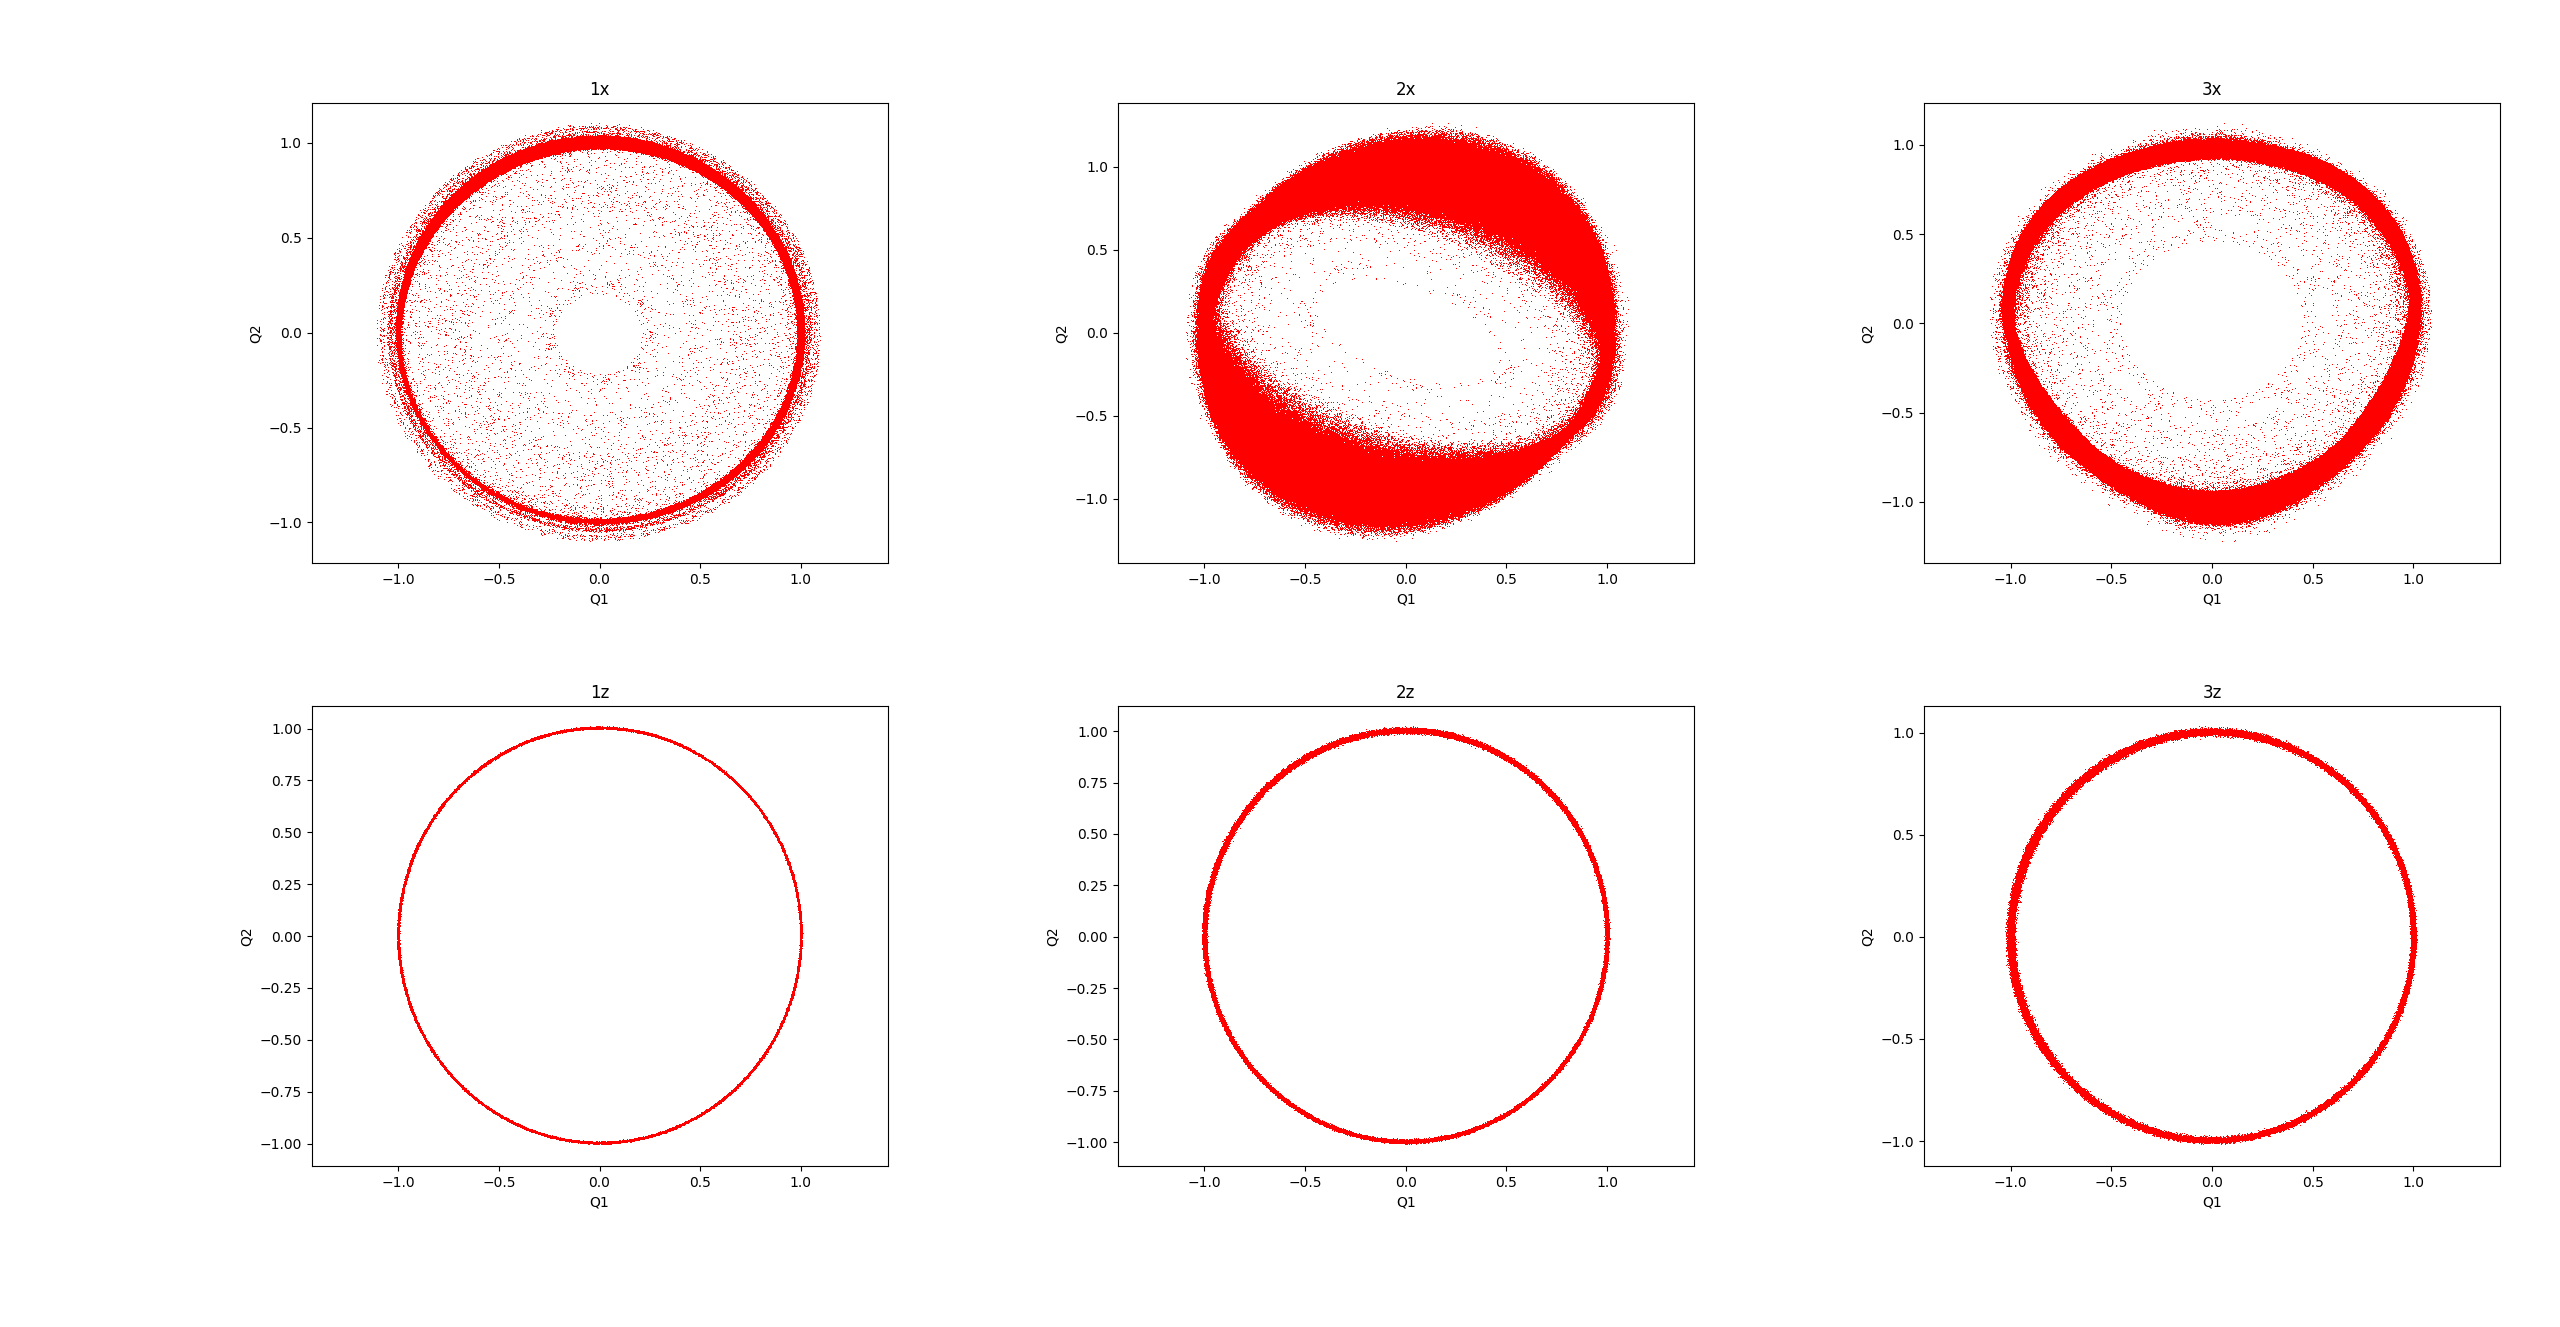
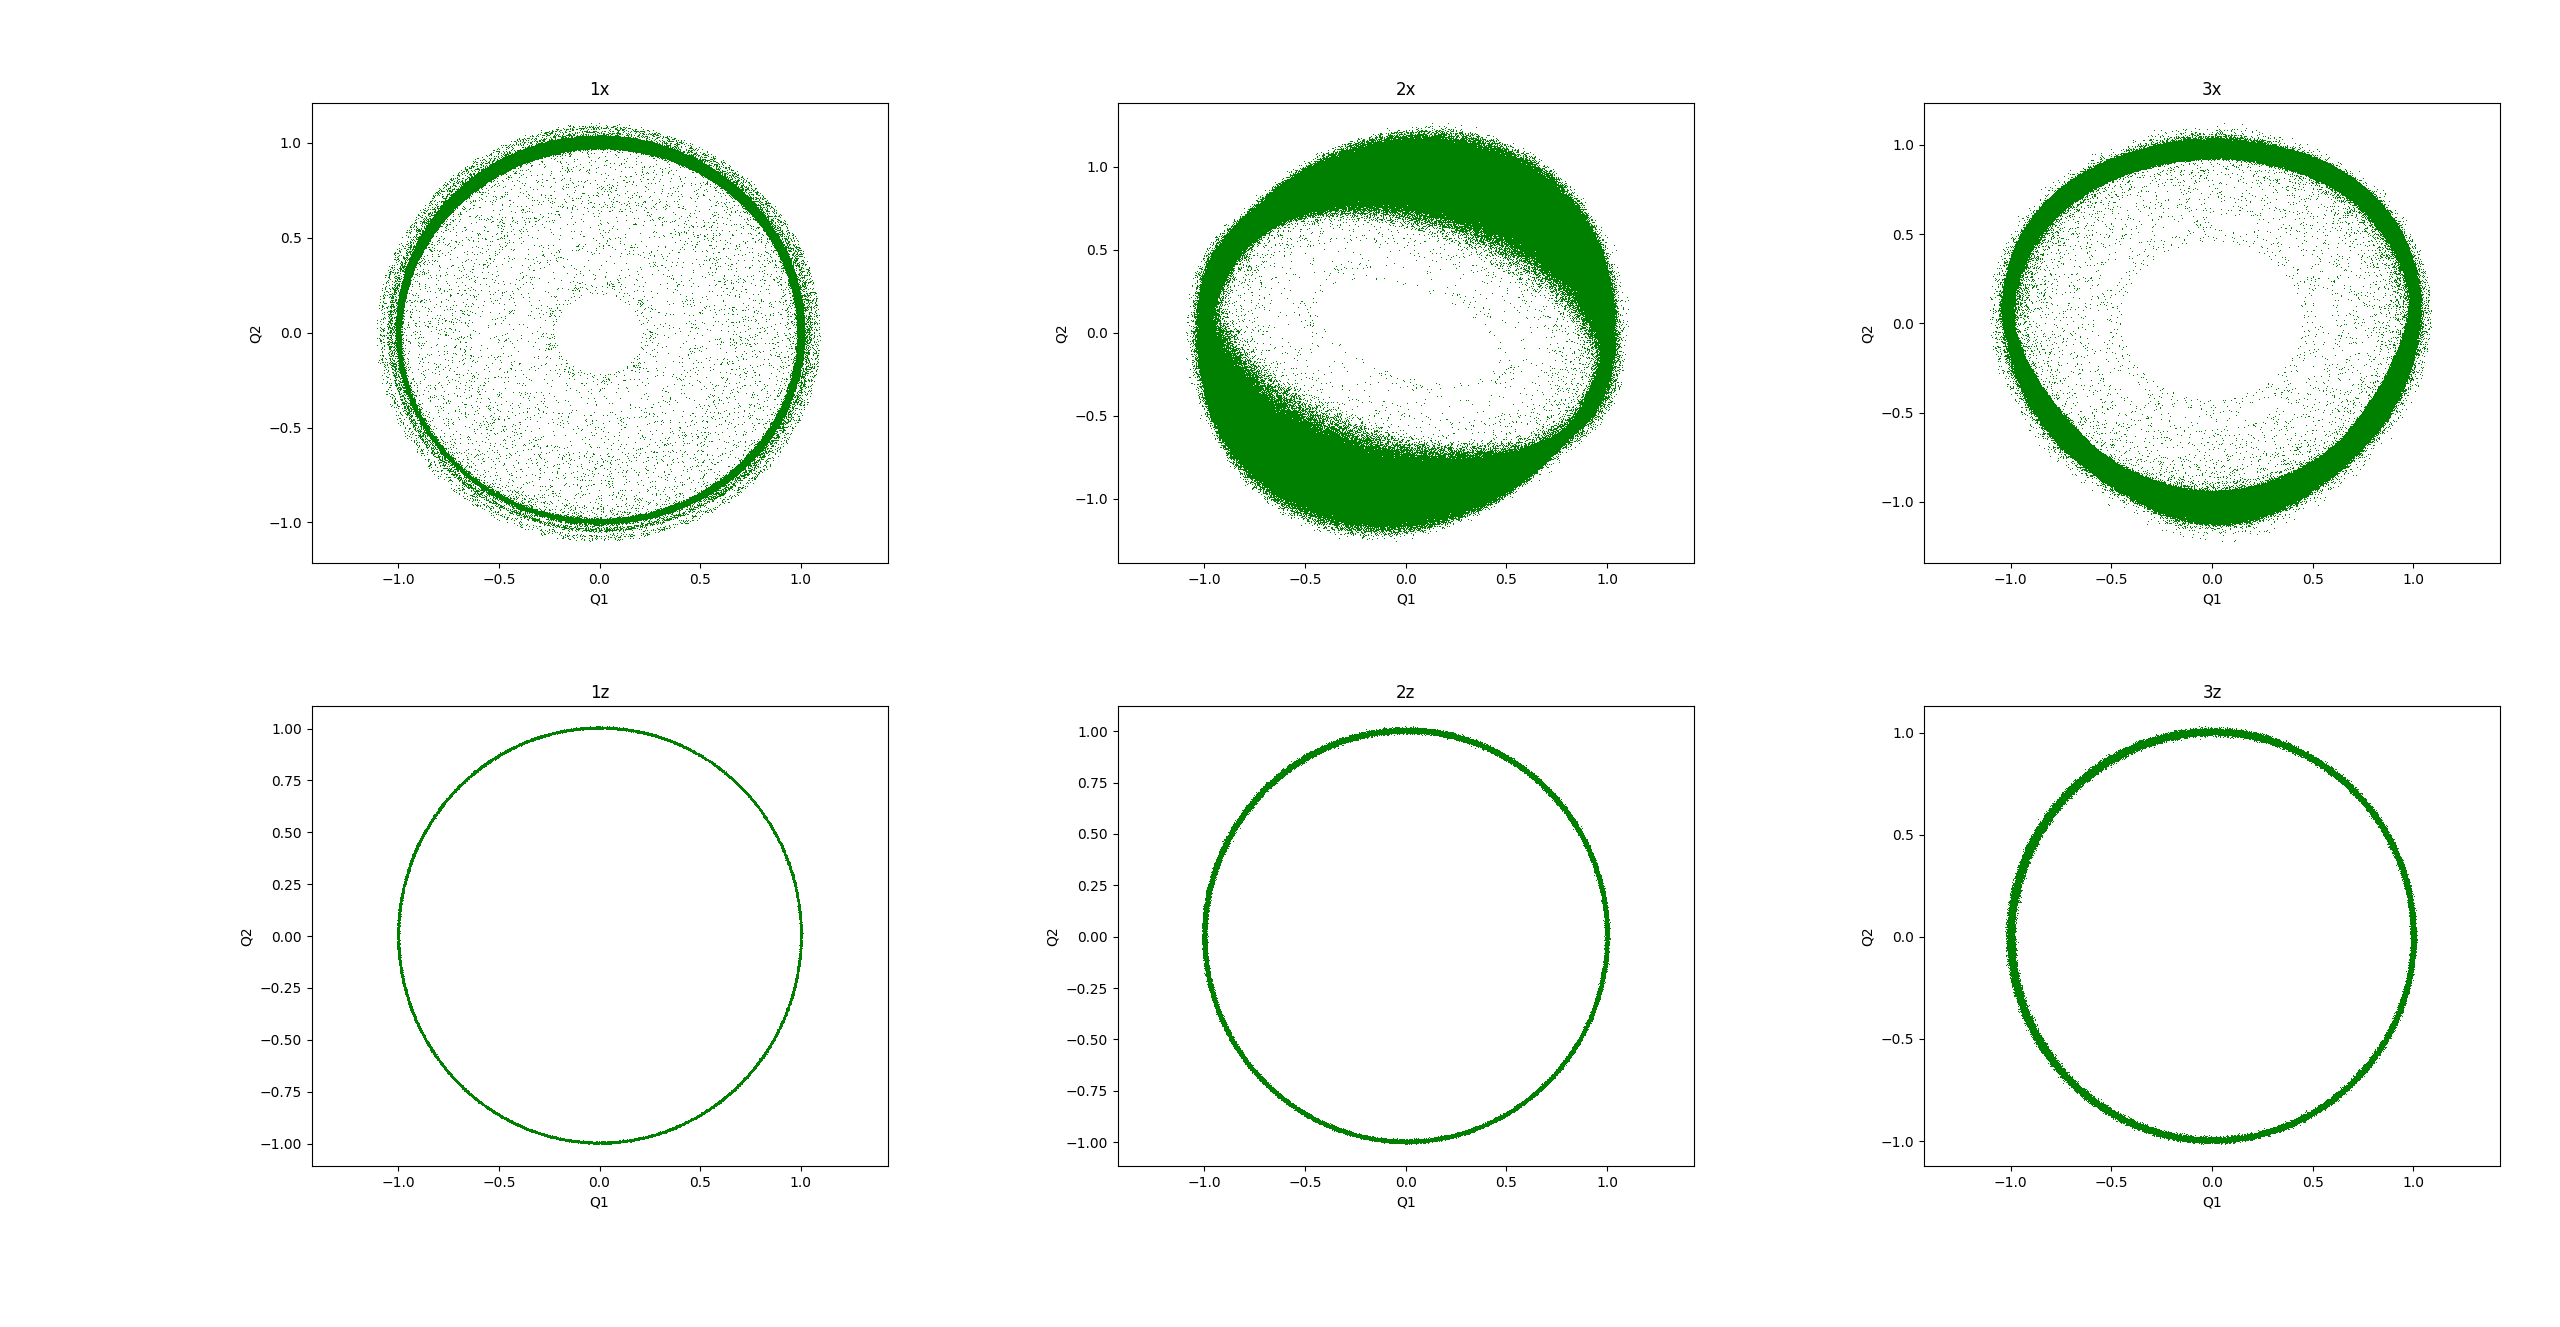
window fitted ASD plots
This commit uses the new window fitting method to generate ASD's for comparison with the raw data and previous fitting method for all HoQI's

diff --git a/Data_Analysis_Part_2/windowed_ellipse_fitting.py b/Data_Analysis_Part_2/windowed_ellipse_fitting.py
@@ -34,7 +34,7 @@ def standard_step_window_ellipse_fitting(Q1, Q2, window_size):
         return_Q1.append(list(transformed_part_Q1))
         return_Q2.append(list(transformed_part_Q2))
 
-    return np.array(return_Q1), np.array(return_Q2)
+    return np.array(return_Q1).flatten(), np.array(return_Q2).flatten()
 
 # Defining function with overlap
 def variable_step_window_ellipse_fitting(Q1, Q2, window_size, step_size):
@@ -69,12 +69,13 @@ def variable_step_window_ellipse_fitting(Q1, Q2, window_size, step_size):
         return_Q1.append(list(transformed_part_Q1))
         return_Q2.append(list(transformed_part_Q2))
 
-    return np.array(return_Q1), np.array(return_Q2)
+    return np.array(return_Q1).flatten(), np.array(return_Q2).flatten()
 
 # Using the function to plot the new circles
-Q1_list = [np.load('Data_Analysis_Part_1/1xQ1.npy')[:3000000], np.load('Data_Analysis_Part_1/2xQ1.npy')[:3000000], np.load('Data_Analysis_Part_1/3xQ1.npy')[:3000000], np.load('Data_Analysis_Part_1/1zQ1.npy')[:3000000], np.load('Data_Analysis_Part_1/2zQ1.npy')[:3000000], np.load('Data_Analysis_Part_1/3zQ1.npy')[:3000000]]
 
-Q2_list = [np.load('Data_Analysis_Part_1/1xQ2.npy')[:3000000], np.load('Data_Analysis_Part_1/2xQ2.npy')[:3000000], np.load('Data_Analysis_Part_1/3xQ2.npy')[:3000000], np.load('Data_Analysis_Part_1/1zQ2.npy')[:3000000], np.load('Data_Analysis_Part_1/2zQ2.npy')[:3000000], np.load('Data_Analysis_Part_1/3zQ2.npy')[:3000000]]
+# Q1_list = [np.load('Data_Analysis_Part_1/1xQ1.npy')[:3000000], np.load('Data_Analysis_Part_1/2xQ1.npy')[:3000000], np.load('Data_Analysis_Part_1/3xQ1.npy')[:3000000], np.load('Data_Analysis_Part_1/1zQ1.npy')[:3000000], np.load('Data_Analysis_Part_1/2zQ1.npy')[:3000000], np.load('Data_Analysis_Part_1/3zQ1.npy')[:3000000]]
+
+# Q2_list = [np.load('Data_Analysis_Part_1/1xQ2.npy')[:3000000], np.load('Data_Analysis_Part_1/2xQ2.npy')[:3000000], np.load('Data_Analysis_Part_1/3xQ2.npy')[:3000000], np.load('Data_Analysis_Part_1/1zQ2.npy')[:3000000], np.load('Data_Analysis_Part_1/2zQ2.npy')[:3000000], np.load('Data_Analysis_Part_1/3zQ2.npy')[:3000000]]
 
 # Q1_transformed = [0]*6
 # Q2_transformed = [0]*6
@@ -86,17 +87,17 @@ Q2_list = [np.load('Data_Analysis_Part_1/1xQ2.npy')[:3000000], np.load('Data_Ana
 #     Q1_transformed[h] = fitted_Q1
 #     Q2_transformed[h] = fitted_Q2
 
-Q1_variable_transformed = [0]*6
-Q2_variable_transformed = [0]*6
-for h in range(0,6):
-    if h <= 2:
-        fitted_Q1, fitted_Q2 = variable_step_window_ellipse_fitting(Q1_list[h], Q2_list[h], window_size=1000, step_size=100)
-    else:
-        fitted_Q1, fitted_Q2 = variable_step_window_ellipse_fitting(Q1_list[h], Q2_list[h], window_size=100, step_size=10)
-    Q1_variable_transformed[h] = fitted_Q1
-    Q2_variable_transformed[h] = fitted_Q2
+# Q1_variable_transformed = [0]*6
+# Q2_variable_transformed = [0]*6
+# for h in range(0,6):
+#     if h <= 2:
+#         fitted_Q1, fitted_Q2 = variable_step_window_ellipse_fitting(Q1_list[h], Q2_list[h], window_size=1000, step_size=100)
+#     else:
+#         fitted_Q1, fitted_Q2 = variable_step_window_ellipse_fitting(Q1_list[h], Q2_list[h], window_size=100, step_size=10)
+#     Q1_variable_transformed[h] = fitted_Q1
+#     Q2_variable_transformed[h] = fitted_Q2
 
-names_list = ['1x', '2x', '3x', '1z', '2z', '3z']
+# names_list = ['1x', '2x', '3x', '1z', '2z', '3z']
 
 # Make a plot of all the ellipses on top of eachother
 # figure, axes = plt.subplots(2, 3)
@@ -116,7 +117,7 @@ names_list = ['1x', '2x', '3x', '1z', '2z', '3z']
 #     for j in range(0,3):
 #         axes[i, j].set_ylabel('Q2')
 #         axes[i, j].set_xlabel('Q1')
-#         axes[i, j].plot(Q1_transformed[i*3+j], Q2_transformed[i*3+j], ',r')
+#         axes[i, j].plot(Q1_transformed[i*3+j], Q2_transformed[i*3+j], ',g')
 #         axes[i, j].set_title(names_list[i*3+j])
 #         axes[i, j].set_xlim(-1.43, 1.43)
 
@@ -124,15 +125,15 @@ names_list = ['1x', '2x', '3x', '1z', '2z', '3z']
 # plt.subplots_adjust(hspace=0.312, wspace=0.4)
 # plt.show()
 
-figure, axes = plt.subplots(2, 3)
-for i in range(0,2):
-    for j in range(0,3):
-        axes[i, j].set_ylabel('Q2')
-        axes[i, j].set_xlabel('Q1')
-        axes[i, j].plot(Q1_variable_transformed[i*3+j], Q2_variable_transformed[i*3+j], ',g')
-        axes[i, j].set_title(names_list[i*3+j])
-        axes[i, j].set_xlim(-1.43, 1.43)
+# figure, axes = plt.subplots(2, 3)
+# for i in range(0,2):
+#     for j in range(0,3):
+#         axes[i, j].set_ylabel('Q2')
+#         axes[i, j].set_xlabel('Q1')
+#         axes[i, j].plot(Q1_variable_transformed[i*3+j], Q2_variable_transformed[i*3+j], ',g')
+#         axes[i, j].set_title(names_list[i*3+j])
+#         axes[i, j].set_xlim(-1.43, 1.43)
 
-figure.tight_layout()
-plt.subplots_adjust(hspace=0.312, wspace=0.4)
-plt.show()
+# figure.tight_layout()
+# plt.subplots_adjust(hspace=0.312, wspace=0.4)
+# plt.show()

diff --git a/Data_Analysis_Part_2/ASD_windowed_ellipse.py b/Data_Analysis_Part_2/ASD_windowed_ellipse.py
@@ -1,0 +1,49 @@
+import numpy as np
+import matplotlib.pyplot as plt
+from windowed_ellipse_fitting import *
+from functions import *
+
+segment_time_set = 1000
+fs_set = 1000
+
+Q1_list = np.load('Data_Analysis_Part_1/3zQ1.npy')[:3000000]
+Q2_list = np.load('Data_Analysis_Part_1/3zQ2.npy')[:3000000]
+
+transformed_Q1, transformed_Q2 = transform(Q1_list, Q2_list)
+
+windowed_transformed_Q1, windowed_transformed_Q2 = standard_step_window_ellipse_fitting(Q1_list, Q2_list, window_size=1000)
+
+length_3x_lijst = Q1_Q2_Length(Q1_list, Q2_list)
+transformed_length_3x_lijst = Q1_Q2_Length(transformed_Q1, transformed_Q2)
+windowed_transformed_length_3x_lijst = Q1_Q2_Length(windowed_transformed_Q1, windowed_transformed_Q2)
+
+base_asd = get_asd(length_3x_lijst, fs=fs_set, segment_time=segment_time_set)
+transformed_asd = get_asd(transformed_length_3x_lijst, fs=fs_set, segment_time=segment_time_set)
+windowed_transformed_asd = get_asd(windowed_transformed_length_3x_lijst, fs=fs_set, segment_time=segment_time_set)
+
+figure, axes =plt.subplots(3, 1)
+axes[0].loglog(base_asd.frequencies.value, base_asd, 'b')
+axes[0].set_xlabel("Frequency (Hz)")
+axes[0].set_ylabel("ASD (um Hz^(-1/2))")
+axes[0].set_xlim(1e-3, 1e3)
+axes[0].grid(True, which="both")
+axes[0].set_title('ASD diagram for the raw data (1z)')
+
+axes[1].loglog(transformed_asd.frequencies.value, transformed_asd, 'r')
+axes[1].set_xlabel("Frequency (Hz)")
+axes[1].set_ylabel("ASD (um Hz^(-1/2))")
+axes[1].set_xlim(1e-3, 1e3)
+axes[1].set_ylim(1e-9, 1e2)
+axes[1].grid(True, which="both")
+axes[1].set_title('ASD diagram for the transformed data (1z)')
+
+axes[2].loglog(windowed_transformed_asd.frequencies.value, windowed_transformed_asd, 'g')
+axes[2].set_xlabel("Frequency (Hz)")
+axes[2].set_ylabel("ASD (um Hz^(-1/2))")
+axes[2].set_xlim(1e-3, 1e3)
+axes[2].set_ylim(1e-9, 1e2)
+axes[2].grid(True, which="both")
+axes[2].set_title('ASD diagram for the windowed transformed data (1z)')
+
+plt.subplots_adjust(hspace=0.312)
+plt.show()

diff --git a/Data_Analysis_Part_2/functions.py b/Data_Analysis_Part_2/functions.py
@@ -108,3 +108,17 @@ def transform(x, y, start_parameters=None):
     rotated = centred @ R 
     unit_vectors = rotated / squeeze
     return unit_vectors[:, 0], unit_vectors[:, 1]
+
+import numpy as np
+from gwpy.timeseries import TimeSeries
+
+def get_asd(data, fs, segment_time):
+    """
+    Maakt van een lijst met verplaatsingen een 'amplitude spectral density diagram' (ASD-diagram).
+    get_asd(datalijst, sample rate, duur van de meting in sec) 
+    """
+    data = np.asarray(data)
+    data = data - np.mean(data) # trek het gemiddelde af van elk element in de lijst om een enorm grote piek rond 0 Hz (= geen trilling, een constante waarde) te voorkomen (in andere woorden: centreer de trilling rond om de y-as)
+    ts = TimeSeries(data, sample_rate=fs)
+    ASD = ts.asd(segment_time, overlap=segment_time/2) # inzake de overlap: de wiskunde achter de code gaat er blindelings vanuit dat segmenten zich herhalen, waardoor de code de data naar 0 'duwt' aan de randen van een segment om eventuele sprongen (heel kleine, niet daadwerkelijk aanwezige frequenties) te voorkomen - de 50/50 overlap zorgt ervoor dat elk datapunt ten minste één keer goed wordt meegenomen
+    return ASD
